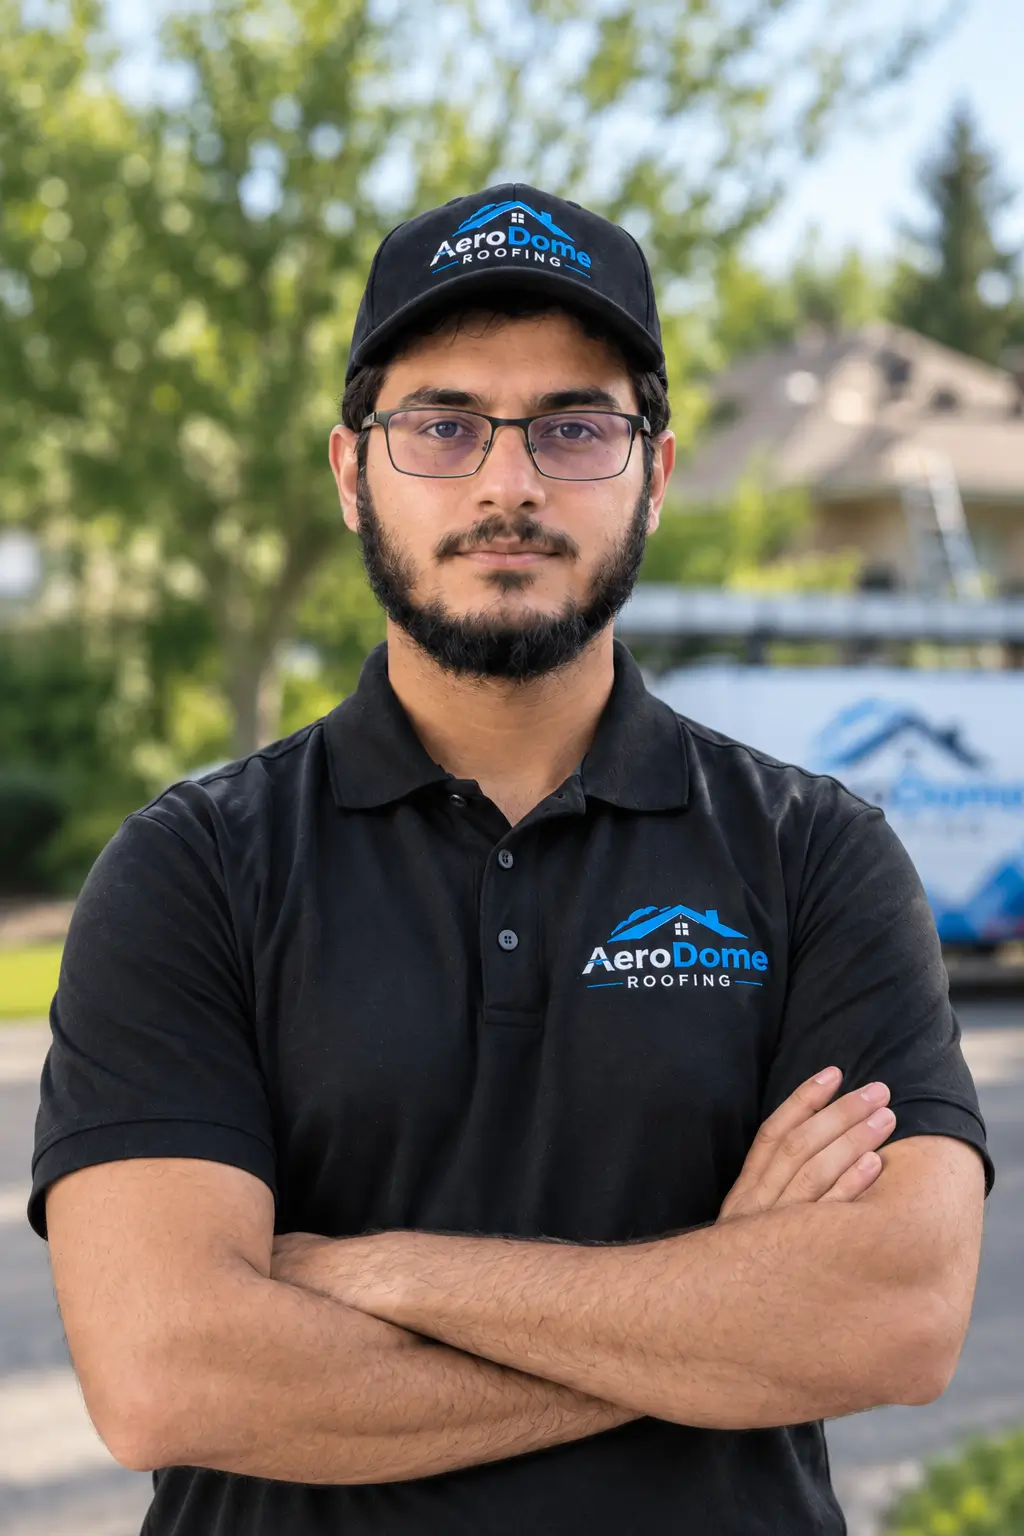
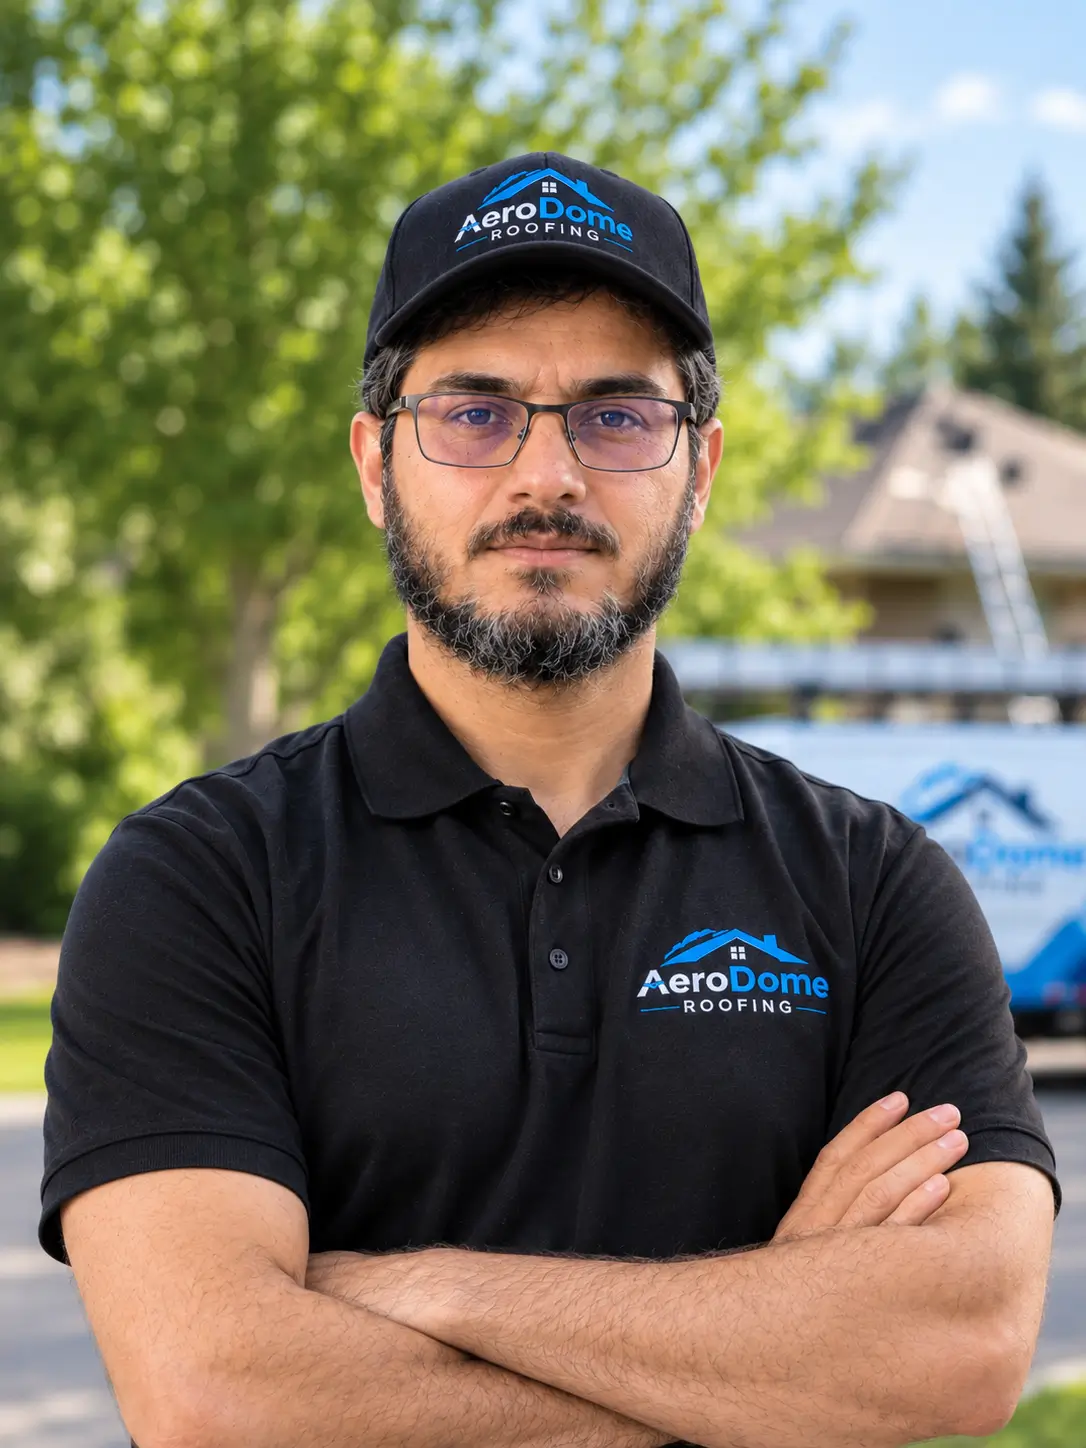
Added copy for Roof Inspections service page. Fixed Navbar's styling for mobile devices

diff --git a/src/data/servicesData.js b/src/data/servicesData.js
@@ -56,7 +56,8 @@ export const servicesHub = {
     { name: "GUTTERS & EAVESTROUGHS", id: "gutters", icon: "Droplets" },
     { name: "CONCRETE & HARDSCAPING", id: "concrete", icon: "Hammer" },
     { name: "STORM DAMAGE RESTORATION", id: "storm-damage", icon: "Zap" },
-    { name: "SOLAR ROOFING", id: "solar-roofing", icon: "Sun" }
+    { name: "SOLAR ROOFING", id: "solar-roofing", icon: "Sun" },
+    { name: "ROOF INSPECTIONS", id: "roof-inspection", icon: "Search" }
   ]
 };
 
@@ -1164,6 +1165,125 @@ export const servicesShowcase = [
       }
     ],
     relatedServices: ["roof-repair", "storm-damage", "residential-roofing"]
+  },
+
+  // ─── ROOF INSPECTION ─────────────────────────────────────────────────────
+  {
+    id: "roof-inspection",
+    breadcrumb: "ROOF INSPECTIONS",
+    eyebrow: "PROFESSIONAL ROOF INSPECTION CALGARY",
+    title: "ROOF INSPECTIONS",
+    heroHeadline: "ROOF INSPECTION CALGARY — KNOW EXACTLY WHAT YOUR ROOF NEEDS",
+    description:
+      "Calgary's hail season, freeze-thaw cycles, and chinook wind events cause roof damage that is completely invisible from the ground. A professional roof inspection gives you a photo-documented written report covering every surface — shingles, flashing, gutters, ventilation, and penetrations — so every roofing decision you make is based on facts, not guesswork. Book your free inspection across NW, NE, SW, and SE Calgary, Airdrie, Okotoks, Chestermere, and Cochrane.",
+    bullets: [
+      "Free roof inspection Calgary — written photo report included, yours to keep regardless of hire",
+      "Post-hail, pre-purchase, pre-sale, annual, and insurance renewal inspections across Greater Calgary",
+      "21-point checklist inspection covering shingles, flashing, gutters, vents, and roof deck condition",
+      "No-pressure findings — options explained, next steps are entirely your decision"
+    ],
+    image: "/images/services_aerial_roof.jpg",
+    imageAlt: "Professional roof inspection Calgary — AeroDome Roofing written report and photo documentation",
+    reverse: false,
+    ctaText: "LEARN MORE",
+    secondaryCtaText: "BOOK FREE INSPECTION",
+
+    // ── Detail Page Fields ──────────────────────────────────────────────────
+    whyEyebrow: "WHY CHOOSE US",
+    whyHeading: "WHY CALGARY HOMEOWNERS TRUST AERODOME FOR ROOF INSPECTIONS",
+    whyItems: [
+      {
+        icon: "ShieldCheck",
+        text: "We Tell You If Your Roof Is Fine — An inspection that finds no issues is a good inspection. If your roof has years of service life remaining, we will tell you exactly that — in writing. We will never manufacture findings to generate repair work."
+      },
+      {
+        icon: "Award",
+        text: "Written Report You Own, Regardless of Hire — Every inspection produces a photo-documented written condition report in your name. Use it with any Alberta insurer, real estate agent, home buyer, or roofing contractor — we have no claim on it after we hand it to you."
+      },
+      {
+        icon: "Clock",
+        text: "Insurance-Ready Documentation & Pre-Purchase Protection — Our inspection reports are formatted to meet Alberta insurer requirements for policy renewal and hail damage claims. We have protected Calgary home buyers from inheriting roofs requiring immediate replacement — know before you sign."
+      }
+    ],
+    scopeEyebrow: "INSPECTION TYPES",
+    scopeHeading: "EVERY INSPECTION SCENARIO WE COVER",
+    includedItems: [
+      "Post-Hail & Post-Storm Inspection — After any hail event affecting your Calgary neighbourhood, we map every impact strike, bruise, and granule loss zone across your full roof surface and prepare an insurance-ready photo-documented scope report.",
+      "Pre-Purchase & Pre-Sale Inspection — Before buying or listing a Calgary home, our written inspection report tells you the roof's true condition and estimated remaining lifespan — one of the most expensive components of any Calgary property.",
+      "Annual, Seasonal & Age-Triggered Inspection — Calgary's freeze-thaw cycles and hail season demand yearly professional checks for any roof 10 years or older. Post-winter spring inspections reveal ice dam damage; pre-winter inspections confirm sealed entry points before first snowfall.",
+      "Insurance Renewal & Insurance Claim Inspection — Alberta insurers increasingly require roof inspections before renewing policies on older roofs. Our reports meet carrier documentation standards and can be submitted directly to support hail damage claims or policy renewal requests."
+    ],
+    processEyebrow: "OUR PROCESS",
+    processHeading: "HOW A PROFESSIONAL ROOF INSPECTION WORKS IN 4 STEPS",
+    processSubtitle:
+      "From easy booking to written report delivery — a thorough, honest inspection with no obligation attached.",
+    processSteps: [
+      {
+        step: "01",
+        title: "EASY BOOKING & SAME-WEEK AVAILABILITY",
+        desc: "Call (403) 918-4444 or submit our booking form to schedule your Calgary roof inspection. We confirm availability within hours and prioritize post-hail bookings across NW, NE, SE, and SW Calgary."
+      },
+      {
+        step: "02",
+        title: "ON-SITE 21-POINT ROOF INSPECTION",
+        desc: "A certified Calgary inspector walks the full roof perimeter, then systematically inspects every slope — shingles, flashing, penetrations, ridge caps, gutters, soffit, fascia, and ventilation — using our complete inspection checklist."
+      },
+      {
+        step: "03",
+        title: "PHOTO DOCUMENTATION OF EVERY FINDING",
+        desc: "Every condition, damage point, and area of concern is captured with high-resolution timestamped photography organized by roof section. If we find hail bruising or granule loss, every impact zone is documented for insurer submission."
+      },
+      {
+        step: "04",
+        title: "WRITTEN REPORT & NO-PRESSURE FINDINGS REVIEW",
+        desc: "You receive a complete written inspection report covering condition ratings, findings, estimated remaining lifespan, and recommended next steps. We walk you through the findings, answer your questions, and step back — the report is yours and what happens next is entirely your decision."
+      }
+    ],
+    faqEyebrow: "FREQUENTLY ASKED QUESTIONS",
+    faqHeading: "CALGARY ROOF INSPECTION FAQS",
+    faqs: [
+      {
+        q: "HOW MUCH DOES A ROOF INSPECTION COST IN CALGARY?",
+        a: "AeroDome provides free roof inspections Calgary-wide including a full written photo report. There is no charge for the inspection and no obligation to hire us for any subsequent work. You own the written report regardless of what you decide to do next. Book your inspection by calling (403) 918-4444."
+      },
+      {
+        q: "WHAT DOES A ROOF INSPECTION INCLUDE IN CALGARY?",
+        a: "A professional roof inspection Calgary covers shingle condition — granule loss, bruising, curling, cracking, and missing sections — along with flashing around chimneys, vents, and skylights, soffit and fascia condition, gutter drainage, roof deck integrity, ventilation balance, all penetrations, and an overall remaining lifespan estimate adjusted for Calgary's climate."
+      },
+      {
+        q: "HOW LONG DOES A ROOF INSPECTION TAKE?",
+        a: "Most Calgary residential roof inspections take 45 to 90 minutes depending on roof size, pitch, and complexity. Post-hail inspections with full damage mapping take longer. We will give you a time estimate when booking and always clean up before we leave."
+      },
+      {
+        q: "HOW OFTEN SHOULD I HAVE MY ROOF INSPECTED IN CALGARY?",
+        a: "Calgary's hail season, freeze-thaw cycles, and chinook winds make annual inspections the standard for any roof 10 years or older. At minimum, inspect in spring after ice dam season and in fall before first snowfall. After any hail event affecting your neighbourhood, book an inspection within days regardless of roof age."
+      },
+      {
+        q: "DO I NEED A ROOF INSPECTION AFTER A HAIL STORM IN CALGARY?",
+        a: "Yes — immediately. Hail damage including shingle bruising, granule loss, and broken adhesive seals is rarely visible from the ground. Alberta insurance policies have filing windows and mitigation of loss requirements that reward prompt professional documentation. Book a post-storm roof inspection Calgary before the damage compounds."
+      },
+      {
+        q: "WHAT IS THE DIFFERENCE BETWEEN A HOME INSPECTION AND A PROFESSIONAL ROOF INSPECTION?",
+        a: "A general home inspector provides a broad multi-system assessment and typically cannot walk steep-pitch roofs safely. A certified roofing contractor conducts a forensic roof-specific inspection — slope by slope, section by section — that identifies subtle shingle bruising, hidden flashing failures, and ventilation imbalances a home inspector will miss."
+      },
+      {
+        q: "CAN A ROOF INSPECTION HELP WITH MY INSURANCE CLAIM IN CALGARY?",
+        a: "Yes. Insurance adjusters handle large volumes of post-storm claims and frequently miss subtle hail damage. Our inspection reports include photo documentation, test-square impact counts, and manufacturer specifications that give your adjuster verifiable evidence. We can also meet your adjuster on-site to review findings directly."
+      },
+      {
+        q: "DO I NEED A ROOF INSPECTION BEFORE BUYING A HOME IN CALGARY?",
+        a: "Every Calgary home purchase should include a dedicated pre-purchase roof inspection by a licensed roofing contractor. A roof replacement can cost $10,000–$30,000+ depending on home size and materials. A written inspection report before signing tells you the roof's true age, condition, and remaining life — negotiating leverage or a fully informed purchase decision."
+      },
+      {
+        q: "MY INSURANCE COMPANY IS ASKING FOR A ROOF INSPECTION — WHAT DOES THAT MEAN?",
+        a: "Alberta insurers increasingly require roof inspections before renewing policies on homes with roofs 15 years or older, or in higher-risk hail corridors. This is an underwriting review — not a denial. Our inspection reports are formatted to meet carrier documentation requirements and can be submitted directly to your insurer to satisfy the renewal request."
+      },
+      {
+        q: "HOW DO I KNOW IF MY ROOF NEEDS REPAIR OR REPLACEMENT AFTER AN INSPECTION?",
+        a: "The written inspection report will make a clear recommendation based on damage extent, roof age, shingle condition across all slopes, and remaining lifespan. We will walk you through the findings without pressure. If the roof needs nothing, we will say so. If targeted repairs extend the life meaningfully, we will tell you that too — alongside the honest replacement scenario."
+      }
+    ],
+    relatedServices: ["hail-damage", "roof-repair", "roof-replacement"]
   }
 ];
 

diff --git a/src/index.css b/src/index.css
@@ -696,6 +696,9 @@ img {
           .header-nav {
             display: none;
           }
+          .mobile-hamburger {
+            display: block;
+          }
         }
         @media (max-width: 768px) {
           .header-phone-link {
@@ -707,15 +710,36 @@ img {
           .mobile-hamburger {
             display: block;
           }
-          .mobile-drawer-pane {
-            background: #FFFFFF;
-            border-top: 1px solid var(--color-border);
-            padding: 20px;
-            display: flex;
-            flex-direction: column;
-            gap: 20px;
-            box-shadow: var(--shadow-lg);
-          }
+        }
+
+        /* Mobile Drawer Pane */
+        .mobile-drawer-pane {
+          background: #FFFFFF;
+          border-top: 1px solid var(--color-border);
+          padding: 20px 20px calc(100px + env(safe-area-inset-bottom, 0px));
+          display: flex;
+          flex-direction: column;
+          gap: 20px;
+          box-shadow: var(--shadow-lg);
+          max-height: calc(100vh - var(--header-height));
+          max-height: calc(100dvh - var(--header-height));
+          overflow-y: auto;
+          -webkit-overflow-scrolling: touch;
+          overscroll-behavior: contain;
+          touch-action: pan-y;
+        }
+        .mobile-drawer-pane::-webkit-scrollbar {
+          width: 5px;
+        }
+        .mobile-drawer-pane::-webkit-scrollbar-track {
+          background: transparent;
+        }
+        .mobile-drawer-pane::-webkit-scrollbar-thumb {
+          background: var(--color-border);
+          border-radius: var(--radius-pill);
+        }
+
+        @media (max-width: 1080px) {
           .mobile-nav-links {
             display: flex;
             flex-direction: column;

diff --git a/src/components/Header.jsx b/src/components/Header.jsx
@@ -45,6 +45,18 @@ export default function Header({ onOpenModal }) {
     setMobileMenuOpen(false);
   }, [location.pathname, location.hash]);
 
+  // Lock background body scroll when mobile menu is open
+  useEffect(() => {
+    if (mobileMenuOpen) {
+      document.body.style.overflow = 'hidden';
+    } else {
+      document.body.style.overflow = '';
+    }
+    return () => {
+      document.body.style.overflow = '';
+    };
+  }, [mobileMenuOpen]);
+
   const closeMenu = () => {
     setMobileMenuOpen(false);
     setServicesDropdownOpen(false);

diff --git a/src/pages/ServicesPage.jsx b/src/pages/ServicesPage.jsx
@@ -10,6 +10,7 @@ import {
   Sun, 
   HardHat,
   Grid,
+  Search,
   CheckCircle2, 
   Phone, 
   ChevronRight, 
@@ -72,6 +73,7 @@ export default function ServicesPage({ onOpenModal }) {
       case 'Sun': return <Sun size={18} />;
       case 'HardHat': return <HardHat size={18} />;
       case 'Grid': return <Grid size={18} />;
+      case 'Search': return <Search size={18} />;
       default: return <Home size={18} />;
     }
   };
